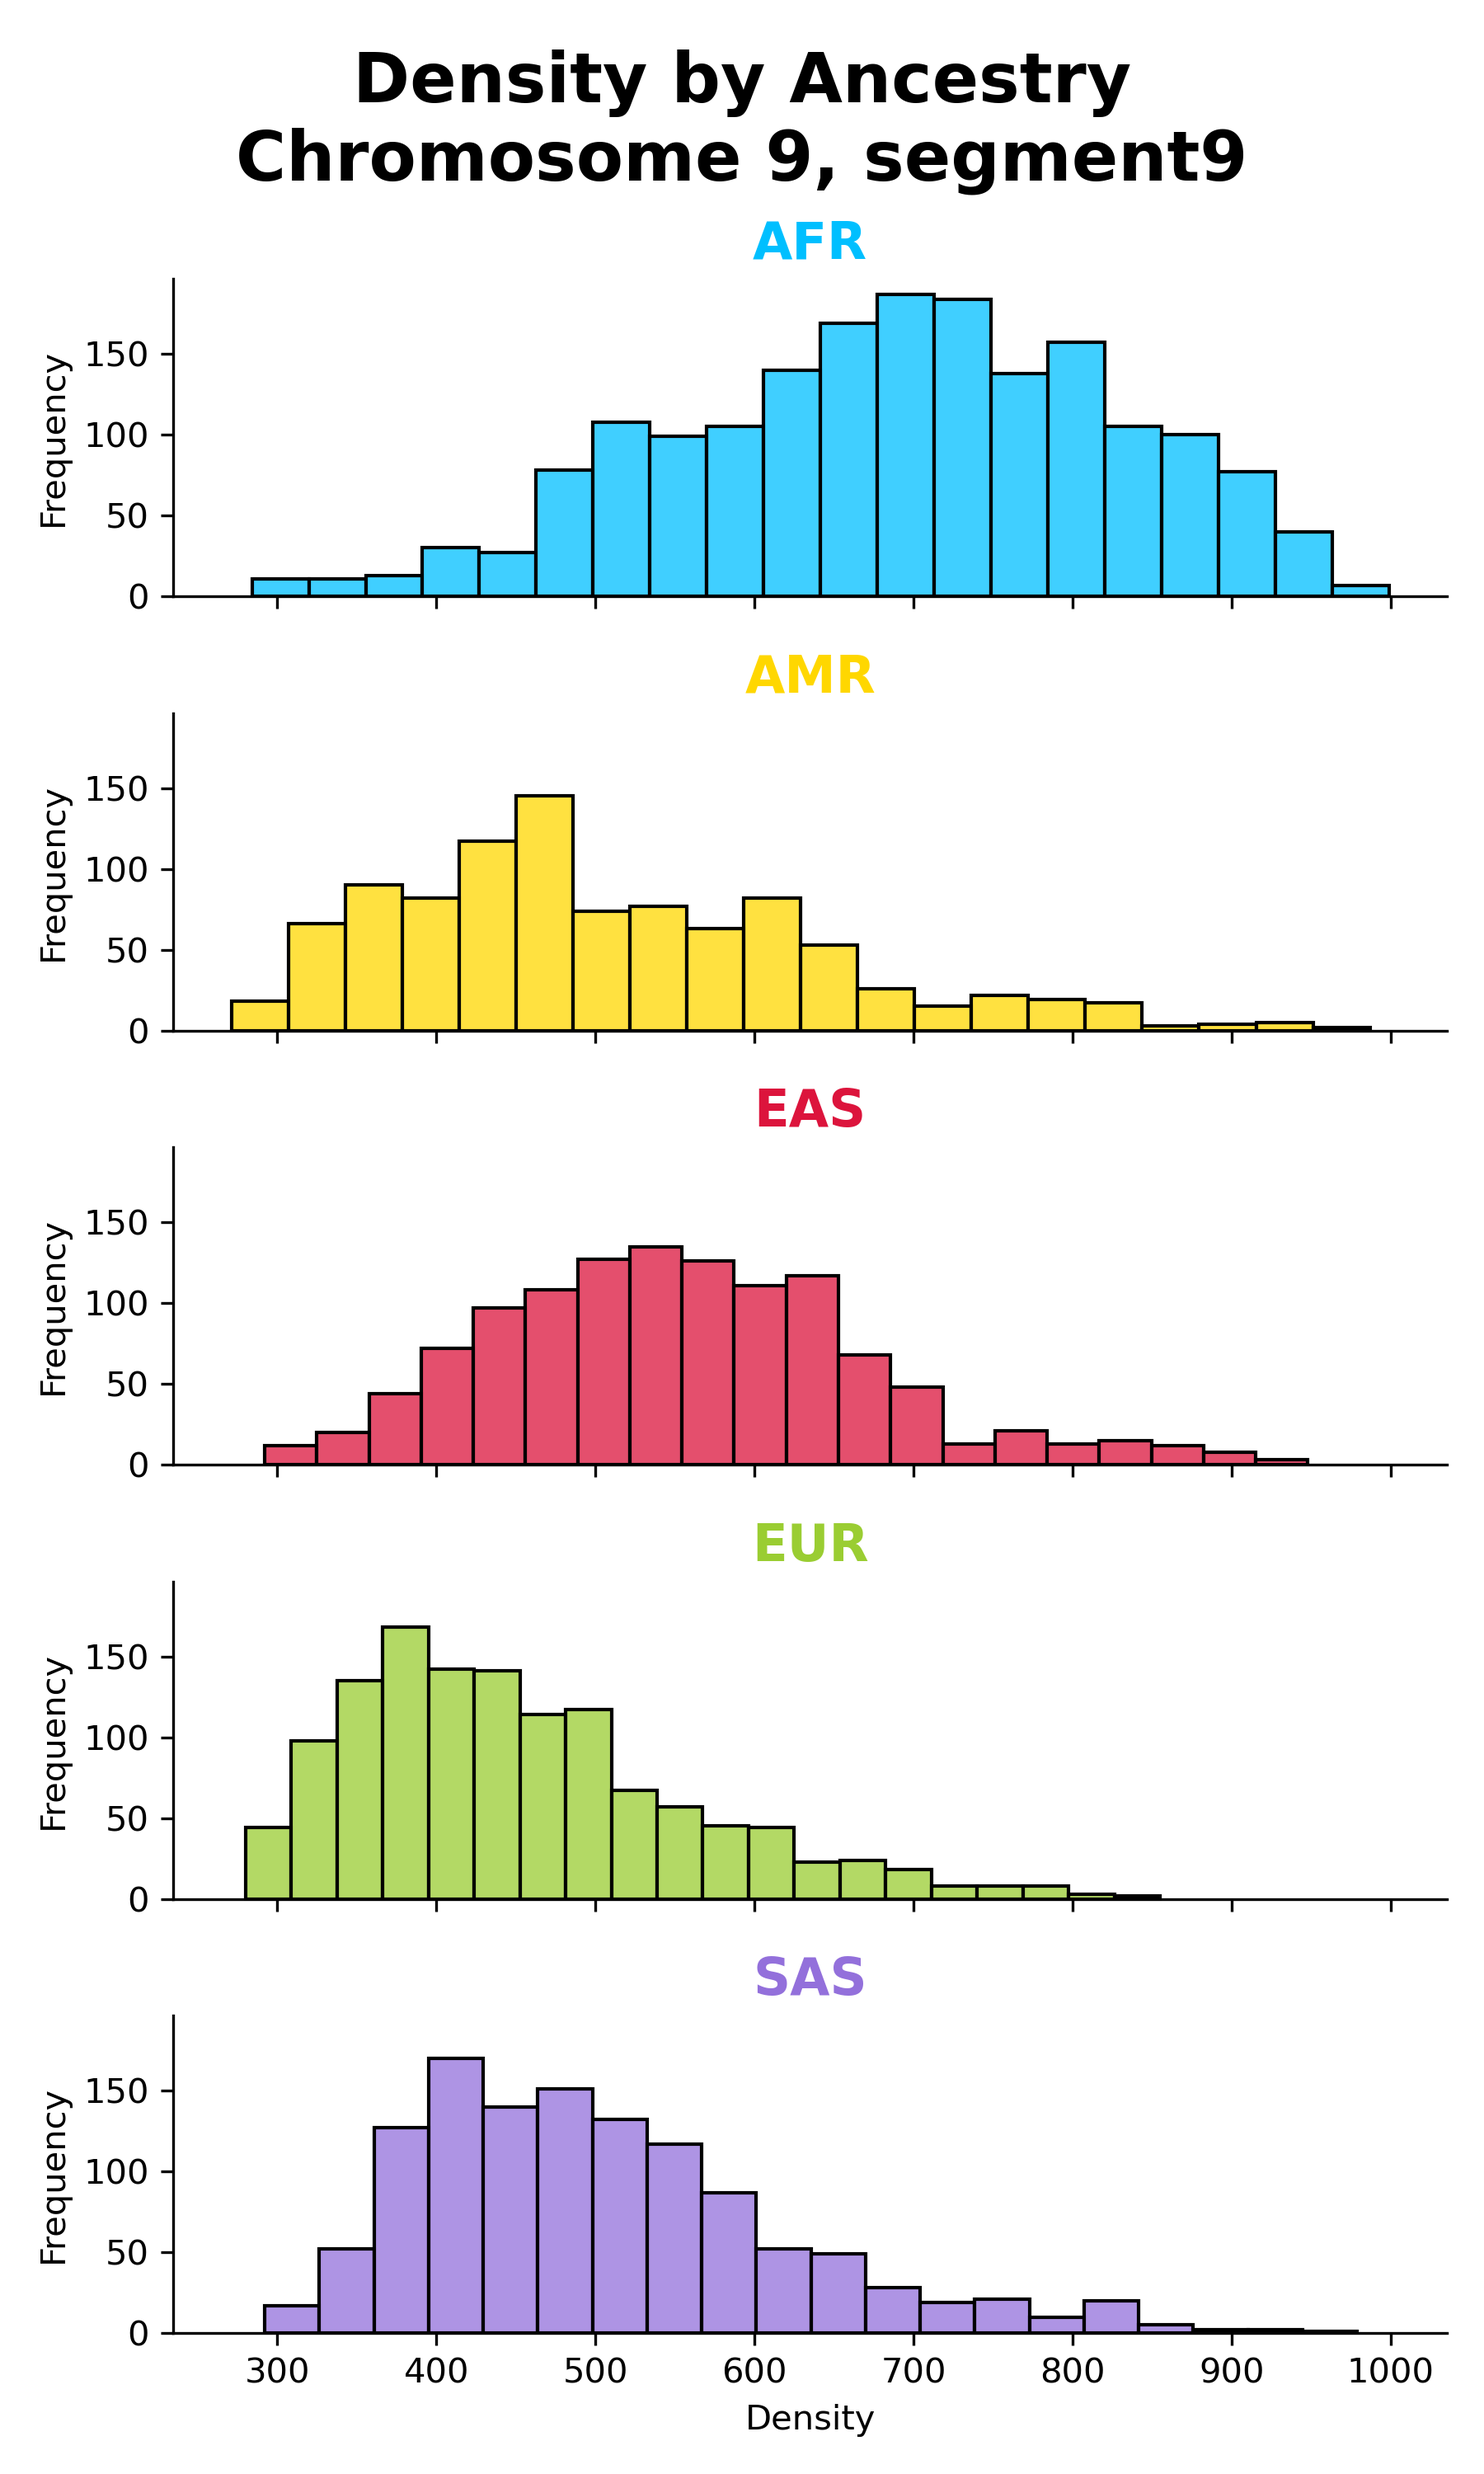
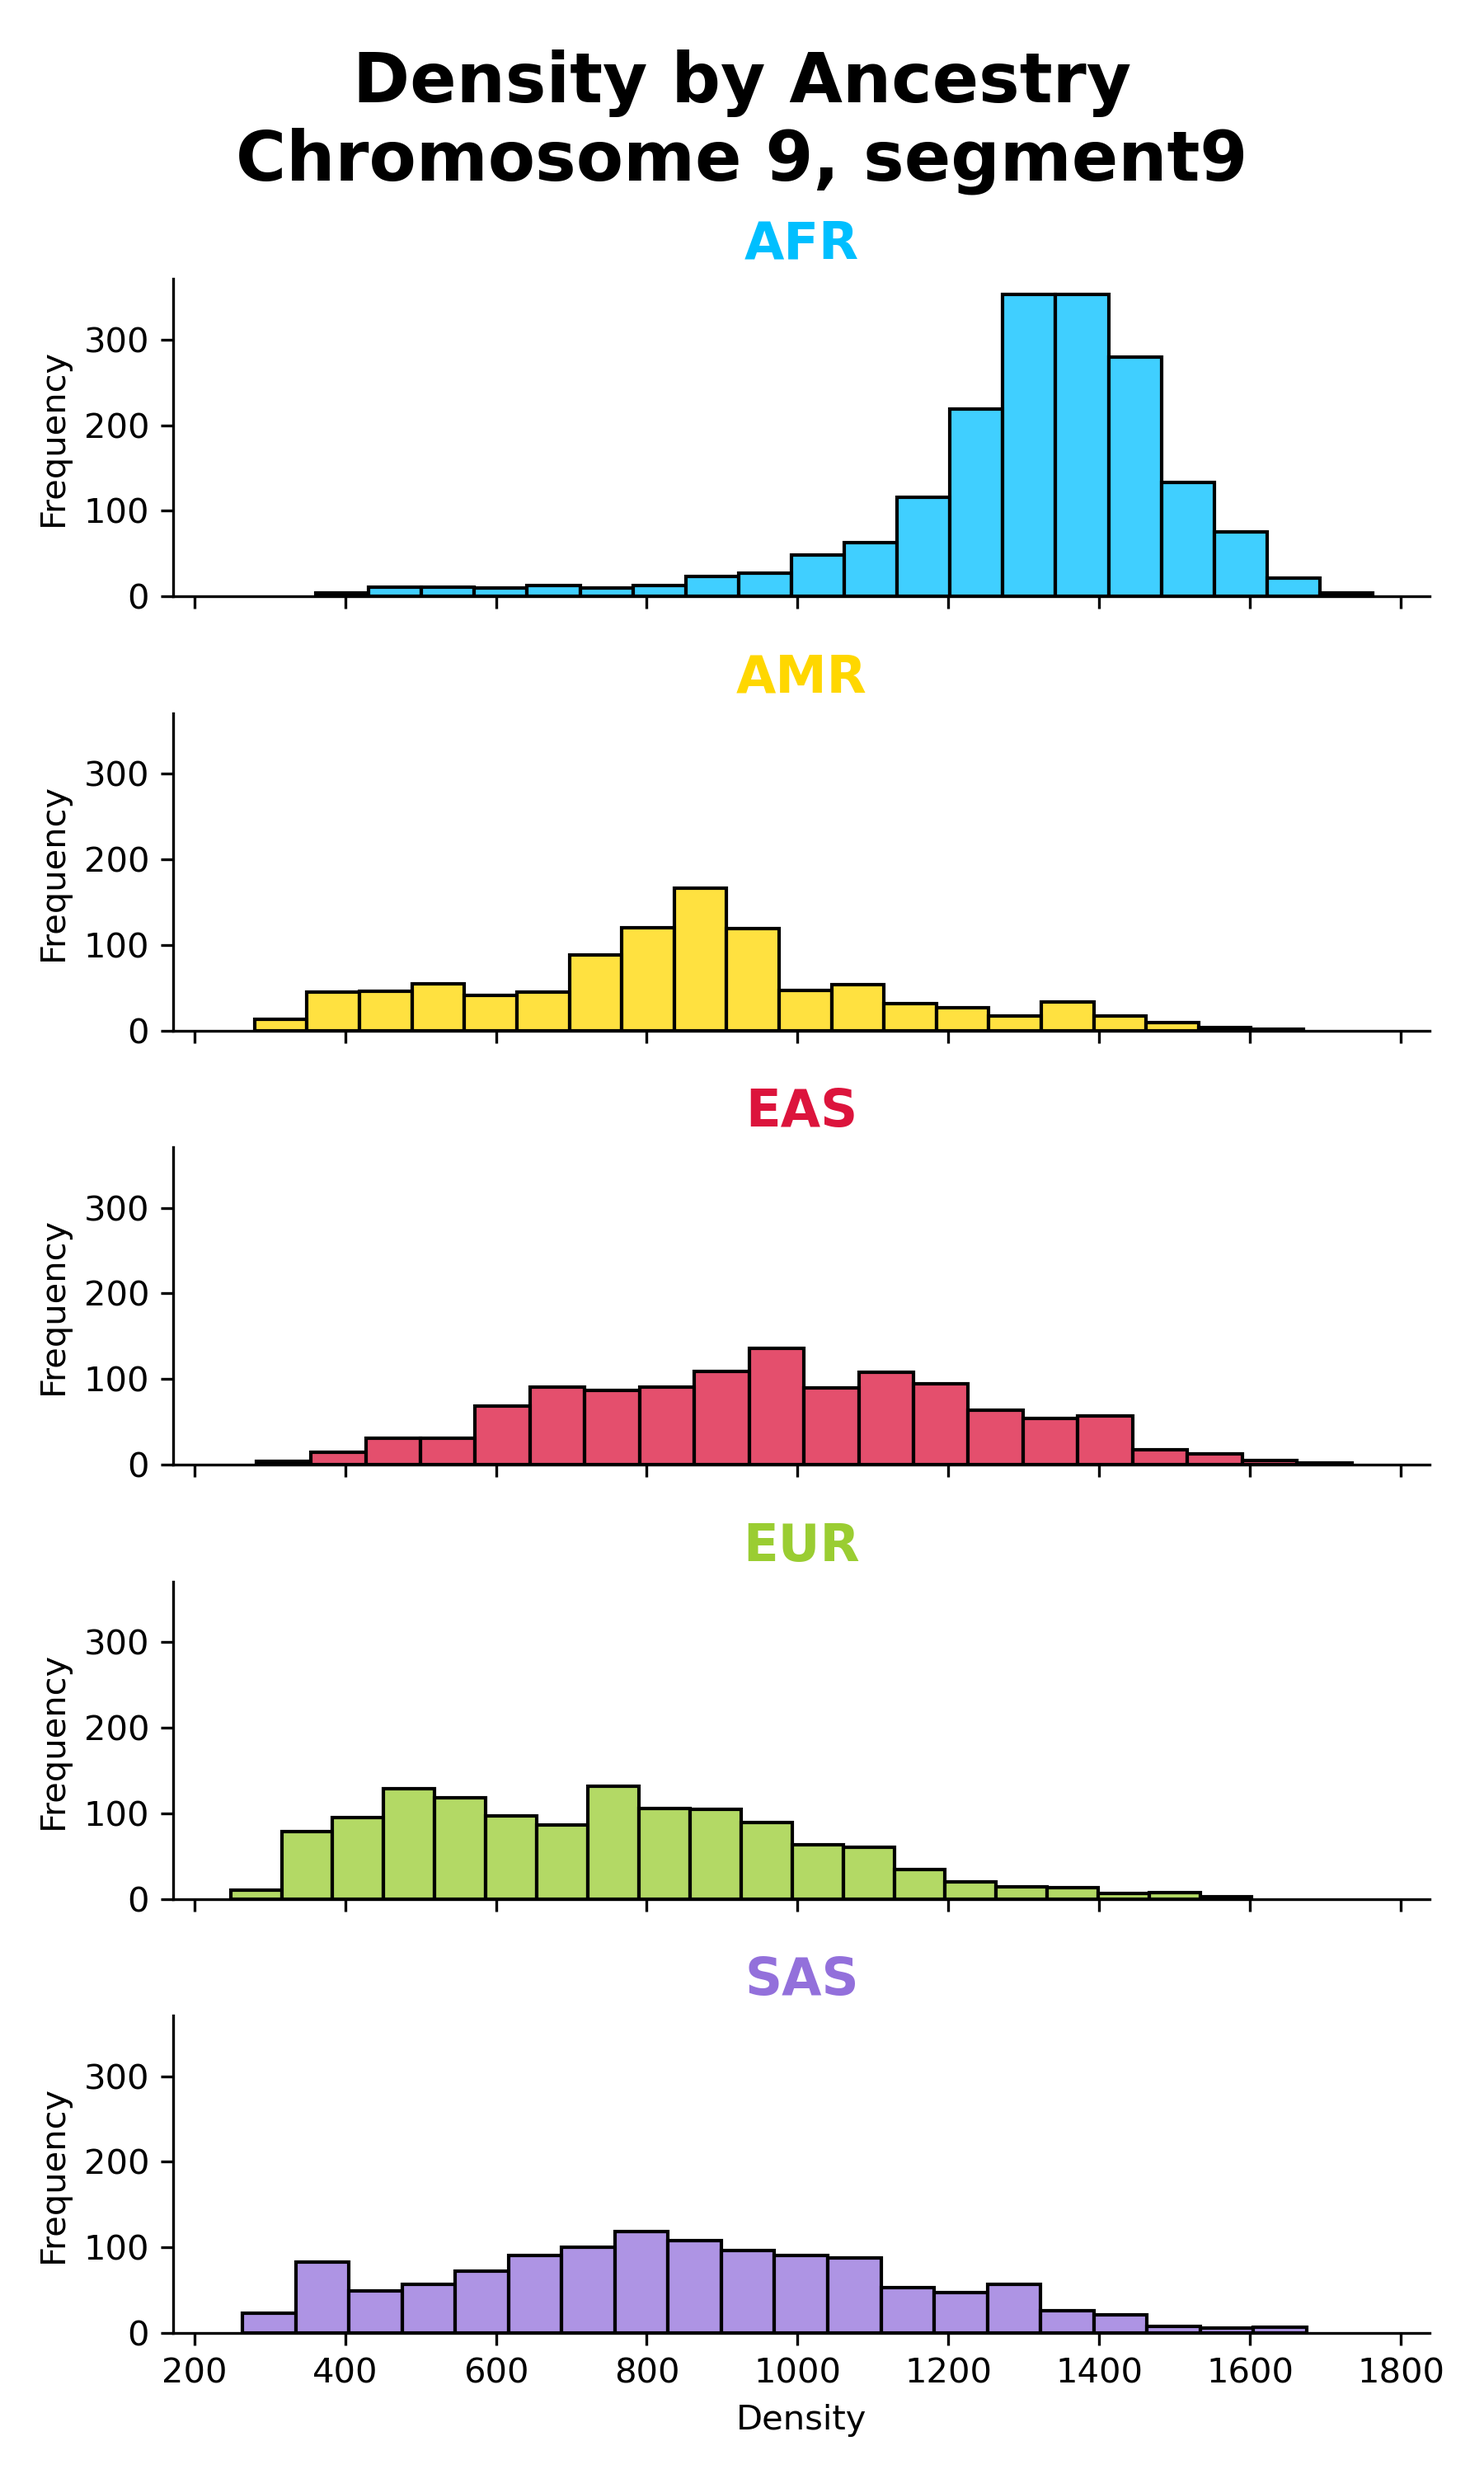
updating figures

diff --git a/plotting/plot_density.py b/plotting/plot_density.py
@@ -94,11 +94,10 @@ def plot_density_by_ancestry(sample_densities,
 
     # title = ('Density by Ancestry'
     #          '\nChromosome ' + chrm + ', segments (0,' + str(len(sample_densities['HG00096_0'])) + ')')
-    title = ('Density by Ancestry'
-             '\nChromosome ' + chrm)
+    # title = ('Chromosome ' + chrm + ' segments 1-' + str(len(sample_densities['HG00096_0'])+1))
 
     fig, axes = plt.subplots(num_superpops, 1,
-                             figsize=(6, 10),
+                             figsize=(6, 12),
                              sharex=True, sharey=True,
                              dpi=300)
 
@@ -122,17 +121,30 @@ def plot_density_by_ancestry(sample_densities,
                      color=color,
                      kde=False,
                      bins=20)
-        ax.set_title(superpop, fontsize=15, color=color, fontweight='bold')
+        ax.set_title(superpop, fontsize=20, color='black')
         ax.set_xlabel('Density')
         ax.set_ylabel('Frequency')
-        # # log y-axis
-        # ax.set_yscale('log')
+
+        # add a textbox that shows mean, median, and mode densities
+        mean_density = statistics.mean(pop_densities)
+        median_density = statistics.median(pop_densities)
+        mode_density = statistics.mode(pop_densities)
+
+        ax.text(0.1, 0.95, 'Mean: ' + str(round(mean_density, 2)) + '\n'
+                            'Median: ' + str(round(median_density, 2)) + '\n'
+                            'Mode: ' + str(round(mode_density, 2)),
+                horizontalalignment='left',
+                verticalalignment='top',
+                transform=ax.transAxes,
+                fontsize=12,
+                color='black')
+
 
         # remove spines
         ax.spines['top'].set_visible(False)
         ax.spines['right'].set_visible(False)
 
-    fig.suptitle(title, fontsize=20, fontweight='bold')
+    # fig.suptitle(title, fontsize=20, fontweight='bold')
 
     plt.tight_layout()
     fig_name = out + 'density_by_ancestry_chrm' + chrm + '.png'
@@ -289,12 +301,12 @@ def plot_encoding_embedding(good_segment_enc, good_segment_emb,
     superpops = sorted(set(sub_to_super.values()))
     num_superpops = len(superpops)
 
-    fig, axes = plt.subplots(num_superpops, 1,
-                                figsize=(6, 10),
-                                sharex=True, sharey=True,
-                                dpi=300)
     # separate plot per segment
     for seg_idx in good_segments:
+        fig, axes = plt.subplots(num_superpops, 1,
+                                 figsize=(6, 10),
+                                 sharex=True, sharey=True,
+                                 dpi=300)
         for superpop in superpops:
             # get sample IDs for this superpopulation
             samples = [sample for sample, subpop in sample_subpopulations.items() if sub_to_super[subpop] == superpop]
@@ -333,17 +345,17 @@ def plot_encoding_embedding(good_segment_enc, good_segment_emb,
             ax.set_xlabel('Encoding Distance')
             ax.set_ylabel('Embedding Distance')
 
-            # get r^2 values
-            r2 = np.corrcoef(encoding_distances, embedding_distances)[0, 1]
-            ax.text(0.2, 0.9, 'r^2 = ' + str(round(r2, 2)),
+            # get r^2 and correlation coefficient
+            r2 = stats.pearsonr(encoding_distances, embedding_distances)[0] ** 2
+            cc = np.corrcoef(encoding_distances, embedding_distances)[0, 1]
+            ax.text(0.2, 0.9,
+                    'R^2: ' + str(round(r2, 2)) + '\n'
+                    'Corr. Coeff.: ' + str(round(cc, 2)),
                     horizontalalignment='center',
                     verticalalignment='center',
                     transform=ax.transAxes,
                     fontsize=10,
-                    fontweight='bold',
-                    color='black',
-                    bbox=dict(facecolor=colors[superpop], edgecolor='black', boxstyle='round,pad=0.5'))
-
+                    color='black')
 
             ax.spines['top'].set_visible(False)
             ax.spines['right'].set_visible(False)
@@ -353,6 +365,8 @@ def plot_encoding_embedding(good_segment_enc, good_segment_emb,
         fig_name = out + 'encoding_embedding_chrm' + chrm + '_seg' + str(seg_idx) + '.png'
         plt.tight_layout()
         plt.savefig(fig_name)
+        plt.close()
+
 
 def plot_eur_afr_density(sample_densities,
                          sample_subpopulations,
@@ -479,7 +493,7 @@ def plot_r2_density(good_segment_r2,
             ax.set_ylabel('r^2')
 
             # y scale 0-1
-            ax.set_ylim(0, 1)
+            ax.set_ylim(-0.2, 1.0)
 
             ax.spines['top'].set_visible(False)
             ax.spines['right'].set_visible(False)
@@ -490,6 +504,7 @@ def plot_r2_density(good_segment_r2,
         fig_name = out + 'r2_density_chrm' + chrm + '_seg' + str(seg_idx) + '.png'
         plt.tight_layout()
         plt.savefig(fig_name)
+        plt.close()
 
 
 def read_colors(color_file):
@@ -515,7 +530,7 @@ def main():
 
     # read density files
     chroms = [str(i) for i in range(8, 9)]
-    good_segments = [81, 97]
+    good_segments = [76, 81, 97, 108, 136]
 
     num_samples = 6406
 
@@ -557,8 +572,8 @@ def main():
 
         # resize sample densities to be length of num_segments
         for sample, densities in sample_densities.items():
-            sample_densities[sample] = densities[:num_segments]
-            # sample_densities[sample] = [densities[136]]
+            # sample_densities[sample] = densities[:num_segments]
+            sample_densities[sample] = [densities[76]]
 
         # resize segment densities to be length of num_segments
         for segment, densities in segment_densities.items():
@@ -566,13 +581,13 @@ def main():
 
         # plot densities
 
-        # print('Plotting densities by ancestry...', chrm)
-        # plot_density_by_ancestry(sample_densities,
-        #                          sample_subpopulations,
-        #                          sub_to_super,
-        #                          colors,
-        #                          chrm,
-        #                          out)
+        print('Plotting densities by ancestry...', chrm)
+        plot_density_by_ancestry(sample_densities,
+                                 sample_subpopulations,
+                                 sub_to_super,
+                                 colors,
+                                 chrm,
+                                 out)
 
         # print('Plotting densities by segment...', chrm)
         # plot_density_by_segment(segment_densities,
@@ -599,15 +614,15 @@ def main():
         #                      chrm,
         #                      out)
 
-        print('Plotting r2 by density...', chrm)
-        plot_r2_density(good_segment_r2,
-                        sample_densities,
-                        good_segments,
-                        sample_subpopulations,
-                        sub_to_super,
-                        colors,
-                        chrm,
-                        out)
+        # print('Plotting r2 by density...', chrm)
+        # plot_r2_density(good_segment_r2,
+        #                 sample_densities,
+        #                 good_segments,
+        #                 sample_subpopulations,
+        #                 sub_to_super,
+        #                 colors,
+        #                 chrm,
+        #                 out)
 
 
 
